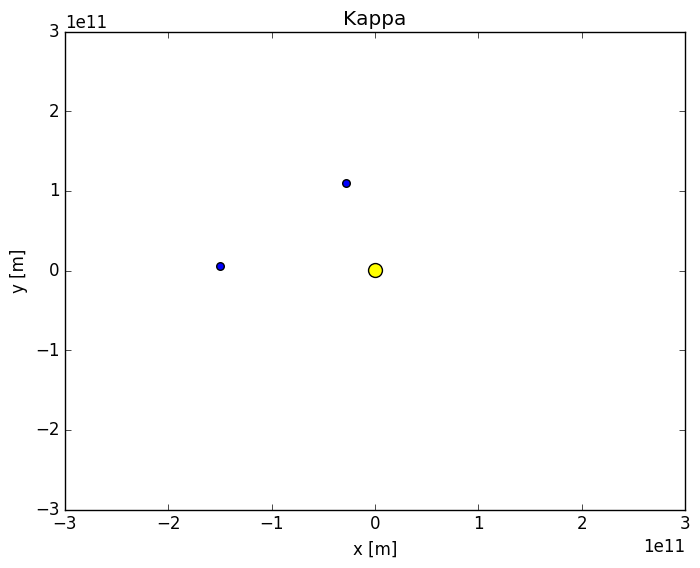
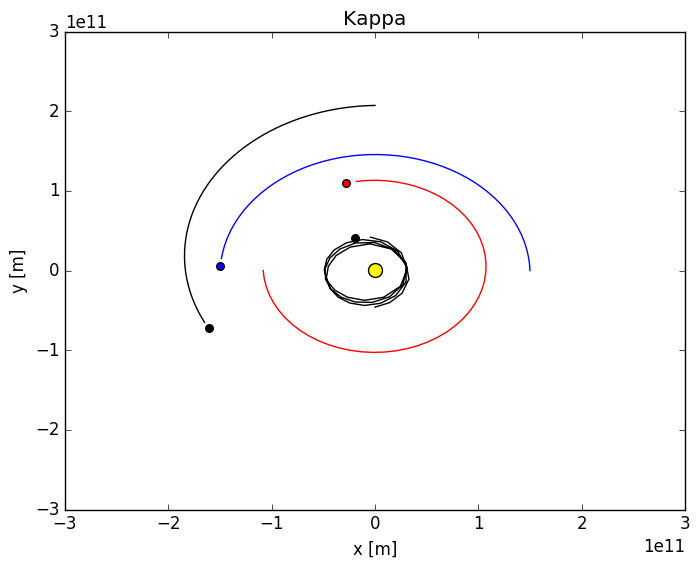
added mars and mercury

diff --git a/nbody.py b/nbody.py
@@ -1,0 +1,190 @@
+import matplotlib.pyplot as plt
+import numpy as np
+from pylab import *
+import matplotlib.animation as animation
+
+#units
+AU = 1.5*10**11
+M = 2*10**30
+me = 6*10**24
+mv = 4.87*10*24
+mm = 3.3*10**23
+mma = 6.417*10**23
+
+
+re = 6371*10**3
+rv = 6052*10**3
+rs = 695700*10**3
+rm = 2440*10**3
+rmma = 3389*10**3
+
+G = 6.67*10**(-11)
+dt = 300000 #seems about right
+
+
+#iterations
+nt = 1000
+
+x = np.linspace(-2*AU,2*AU)
+y = np.linspace(-2*AU,2*AU)
+
+#earth
+xe = np.zeros((1+nt,1))
+ye = np.zeros((1+nt,1))
+ue = np.zeros((1+nt,1))
+ve = np.zeros((1+nt,1))
+
+#sun
+xs = np.zeros((1+nt,1))
+ys = np.zeros((1+nt,1))
+us = np.zeros((1+nt,1))
+vs = np.zeros((1+nt,1))
+
+#venus
+xv = np.zeros((1+nt,1))
+yv = np.zeros((1+nt,1))
+uv = np.zeros((1+nt,1))
+vv = np.zeros((1+nt,1))
+
+#mercury
+xm = np.zeros((1+nt,1))
+ym = np.zeros((1+nt,1))
+um = np.zeros((1+nt,1))
+vm = np.zeros((1+nt,1))
+
+
+#mars
+xma = np.zeros((1+nt,1))
+yma = np.zeros((1+nt,1))
+uma = np.zeros((1+nt,1))
+vma = np.zeros((1+nt,1))
+
+#starting conditions
+xe[0,0] = AU
+ve[0,0] = 29800
+
+xv[0,0] = -108200000*10**3
+vv[0,0] = -35000
+
+ym[0,0] = -46001200*10**3
+um[0,0] = 47.362*10**3
+
+yma[0,0] = 1.3814*AU
+uma[0,0] = -24.077*10**3
+
+for n in range(nt):
+	#the equations
+	#dxe/dt = ue
+	#due/dt = Fx/m
+
+
+	#ue[1] = ue[0]+dt*Fx/m
+	#ve[1] = ve[0]+dt*Fy/m
+	
+	#earth
+	ue[n+1,0] = ue[n,0]+dt*(-G*M/((xe[n,0]-xs[n,0])**2+(ye[n,0]-ys[n,0])**2)**(1.5))*(xe[n,0]-xs[n,0])\
+					  +dt*(-G*mv/((xe[n,0]-xv[n,0])**2+(ye[n,0]-yv[n,0])**2)**(1.5))*(xe[n,0]-xv[n,0])\
+					  +dt*(-G*mm/((xe[n,0]-xm[n,0])**2+(ye[n,0]-ym[n,0])**2)**(1.5))*(xe[n,0]-xm[n,0])\
+					  +dt*(-G*mma/((xe[n,0]-xma[n,0])**2+(ye[n,0]-yma[n,0])**2)**(1.5))*(xe[n,0]-xma[n,0])
+	ve[n+1,0] = ve[n,0]+dt*(-G*M/((xe[n,0]-xs[n,0])**2+(ye[n,0]-ys[n,0])**2)**(1.5))*(ye[n,0]-ys[n,0])\
+					   +dt*(-G*mv/((xe[n,0]-xv[n,0])**2+(ye[n,0]-yv[n,0])**2)**(1.5))*(ye[n,0]-yv[n,0])\
+					   +dt*(-G*mm/((xe[n,0]-xm[n,0])**2+(ye[n,0]-ym[n,0])**2)**(1.5))*(ye[n,0]-ym[n,0])\
+					   +dt*(-G*mma/((xe[n,0]-xma[n,0])**2+(ye[n,0]-yma[n,0])**2)**(1.5))*(ye[n,0]-yma[n,0])
+	#sun
+	us[n+1,0] = us[n,0]+dt*(-G*me/((xe[n,0]-xs[n,0])**2+(ye[n,0]-ys[n,0])**2)**(1.5))*(xs[n,0]-xe[n,0])\
+					   +dt*(-G*mv/((xv[n,0]-xs[n,0])**2+(yv[n,0]-ys[n,0])**2)**(1.5))*(xs[n,0]-xv[n,0])\
+					   +dt*(-G*mm/((xm[n,0]-xs[n,0])**2+(ym[n,0]-ys[n,0])**2)**(1.5))*(xs[n,0]-xm[n,0])\
+					  +dt*(-G*mma/((xma[n,0]-xs[n,0])**2+(yma[n,0]-ys[n,0])**2)**(1.5))*(xs[n,0]-xma[n,0])
+								
+	vs[n+1,0] = vs[n,0]+dt*(-G*me/((xe[n,0]-xs[n,0])**2+(ye[n,0]-ys[n,0])**2)**(1.5))*(ys[n,0]-ye[n,0])\
+					   +dt*(-G*mv/((xv[n,0]-xs[n,0])**2+(yv[n,0]-ys[n,0])**2)**(1.5))*(ys[n,0]-yv[n,0])\
+					   +dt*(-G*mm/((xm[n,0]-xs[n,0])**2+(ym[n,0]-ys[n,0])**2)**(1.5))*(ys[n,0]-ym[n,0])\
+					   +dt*(-G*mma/((xma[n,0]-xs[n,0])**2+(yma[n,0]-ys[n,0])**2)**(1.5))*(ys[n,0]-yma[n,0])
+	#venus
+	uv[n+1,0] = uv[n,0]+dt*(-G*M/((xv[n,0]-xs[n,0])**2+(yv[n,0]-ys[n,0])**2)**(1.5))*(xv[n,0]-xs[n,0])\
+					   +dt*(-G*me/((xv[n,0]-xe[n,0])**2+(yv[n,0]-ye[n,0])**2)**(1.5))*(xv[n,0]-xe[n,0])\
+					   +dt*(-G*mm/((xv[n,0]-xm[n,0])**2+(yv[n,0]-ym[n,0])**2)**(1.5))*(xv[n,0]-xm[n,0])\
+					   +dt*(-G*mma/((xv[n,0]-xma[n,0])**2+(yv[n,0]-yma[n,0])**2)**(1.5))*(xv[n,0]-xma[n,0])
+						
+	vv[n+1,0] = vv[n,0]+dt*(-G*M/((xv[n,0]-xs[n,0])**2+(yv[n,0]-ys[n,0])**2)**(1.5))*(yv[n,0]-ys[n,0])\
+					   +dt*(-G*me/((xv[n,0]-xe[n,0])**2+(yv[n,0]-ye[n,0])**2)**(1.5))*(yv[n,0]-ye[n,0])\
+					   +dt*(-G*mm/((xv[n,0]-xm[n,0])**2+(yv[n,0]-ym[n,0])**2)**(1.5))*(yv[n,0]-ym[n,0])\
+					   +dt*(-G*mma/((xv[n,0]-xma[n,0])**2+(yv[n,0]-yma[n,0])**2)**(1.5))*(yv[n,0]-yma[n,0])	
+	#mercury
+	um[n+1,0] = um[n,0]	+dt*(-G*M /((xm[n,0]-xs[n,0])**2+(ym[n,0]-ys[n,0])**2)**(1.5))*(xm[n,0]-xs[n,0])\
+						+dt*(-G*me/((xm[n,0]-xe[n,0])**2+(ym[n,0]-ye[n,0])**2)**(1.5))*(xm[n,0]-xe[n,0])\
+						+dt*(-G*mv/((xm[n,0]-xv[n,0])**2+(ym[n,0]-yv[n,0])**2)**(1.5))*(xm[n,0]-xv[n,0])\
+						+dt*(-G*mma/((xm[n,0]-xma[n,0])**2+(ym[n,0]-yma[n,0])**2)**(1.5))*(xm[n,0]-xma[n,0])
+						
+	vm[n+1,0] = vm[n,0]	+dt*(-G*M /((xm[n,0]-xs[n,0])**2+(ym[n,0]-ys[n,0])**2)**(1.5))*(ym[n,0]-ys[n,0])\
+						+dt*(-G*me/((xm[n,0]-xe[n,0])**2+(ym[n,0]-ye[n,0])**2)**(1.5))*(ym[n,0]-ye[n,0])\
+						+dt*(-G*mv/((xm[n,0]-xv[n,0])**2+(ym[n,0]-yv[n,0])**2)**(1.5))*(ym[n,0]-yv[n,0])\
+						+dt*(-G*mma/((xm[n,0]-xma[n,0])**2+(ym[n,0]-yma[n,0])**2)**(1.5))*(ym[n,0]-yma[n,0])
+	#mars
+	uma[n+1,0] = uma[n,0]+dt*(-G*M /((xma[n,0]-xs[n,0])**2+(yma[n,0]-ys[n,0])**2)**(1.5))*(xma[n,0]-xs[n,0])\
+						 +dt*(-G*me/((xma[n,0]-xe[n,0])**2+(yma[n,0]-ye[n,0])**2)**(1.5))*(xma[n,0]-xe[n,0])\
+						 +dt*(-G*mv/((xma[n,0]-xv[n,0])**2+(yma[n,0]-yv[n,0])**2)**(1.5))*(xma[n,0]-xv[n,0])\
+						 +dt*(-G*mm/((xma[n,0]-xm[n,0])**2+(yma[n,0]-ym[n,0])**2)**(1.5))*(xma[n,0]-xm[n,0])
+						
+	vma[n+1,0] = vma[n,0]+dt*(-G*M /((xma[n,0]-xs[n,0])**2+(yma[n,0]-ys[n,0])**2)**(1.5))*(yma[n,0]-ys[n,0])\
+						 +dt*(-G*me/((xma[n,0]-xe[n,0])**2+(yma[n,0]-ye[n,0])**2)**(1.5))*(yma[n,0]-ye[n,0])\
+						 +dt*(-G*mv/((xma[n,0]-xv[n,0])**2+(yma[n,0]-yv[n,0])**2)**(1.5))*(yma[n,0]-yv[n,0])\
+						 +dt*(-G*mm/((xma[n,0]-xm[n,0])**2+(yma[n,0]-ym[n,0])**2)**(1.5))*(yma[n,0]-ym[n,0])						 
+	#discretized
+	#forward, based on next timestep
+	#earth
+	xe[n+1,0] = xe[n,0]+dt*ue[n+1,0]
+	ye[n+1,0] = ye[n,0]+dt*ve[n+1,0]
+	#sun
+	xs[n+1,0] = xs[n,0]+dt*us[n+1,0]
+	ys[n+1,0] = ys[n,0]+dt*vs[n+1,0]
+	#venus
+	xv[n+1,0] = xv[n,0]+dt*uv[n+1,0]
+	yv[n+1,0] = yv[n,0]+dt*vv[n+1,0]
+	#mercuy
+	xm[n+1,0] = xm[n,0]+dt*um[n+1,0]
+	ym[n+1,0] = ym[n,0]+dt*vm[n+1,0]
+	#mars
+	xma[n+1,0] = xma[n,0]+dt*uma[n+1,0]
+	yma[n+1,0] = yma[n,0]+dt*vma[n+1,0]	
+	
+plt.hold(True)
+fig = plt.figure()
+ax = fig.gca()
+ax.set_xlim(-2*AU,2*AU)
+ax.set_ylim(-2*AU,2*AU)
+ax.set_title('Kappa')
+ax.set_ylabel('y [m]')
+ax.set_xlabel('x [m]')
+#ax.scatter(xe[0,0], ye[0,0],s=30)
+#ax.scatter(xv[0,0], yv[0,0],s=30)
+#ax.scatter(xs[0,0], ys[0,0],s=100, c='yellow')
+
+
+
+def animate(i): #i increment with 1 each step
+	ax.clear()
+	ax.set_xlim(-2*AU,2*AU)
+	ax.set_ylim(-2*AU,2*AU)
+	ax.set_title('Kappa')
+	ax.set_ylabel('y [m]')
+	ax.set_xlabel('x [m]')
+	ax.plot(xe[0:i,0], ye[0:i,0],c='blue')
+	ax.plot(xv[0:i,0], yv[0:i,0],c='red')
+	ax.plot(xm[0:i,0], ym[0:i,0],c='black')
+	ax.plot(xma[0:i,0], yma[0:i,0],c='black')
+	ax.scatter(xe[i,0], ye[i,0],s=30,c='blue')
+	ax.scatter(xv[i,0], yv[i,0],s=30,c='red')
+	ax.scatter(xm[i,0], ym[i,0],s=30,c='black')
+	ax.scatter(xma[i,0], yma[i,0],s=30,c='black')
+	ax.scatter(xs[i,0], ys[i,0],s=100,c='yellow')
+	if i == 50:
+		plt.savefig('Orbit.png', bbox_inches='tight')
+	return None
+
+
+anim = animation.FuncAnimation(fig, animate, frames=nt, interval=100)
+
+plt.show()
+
+
